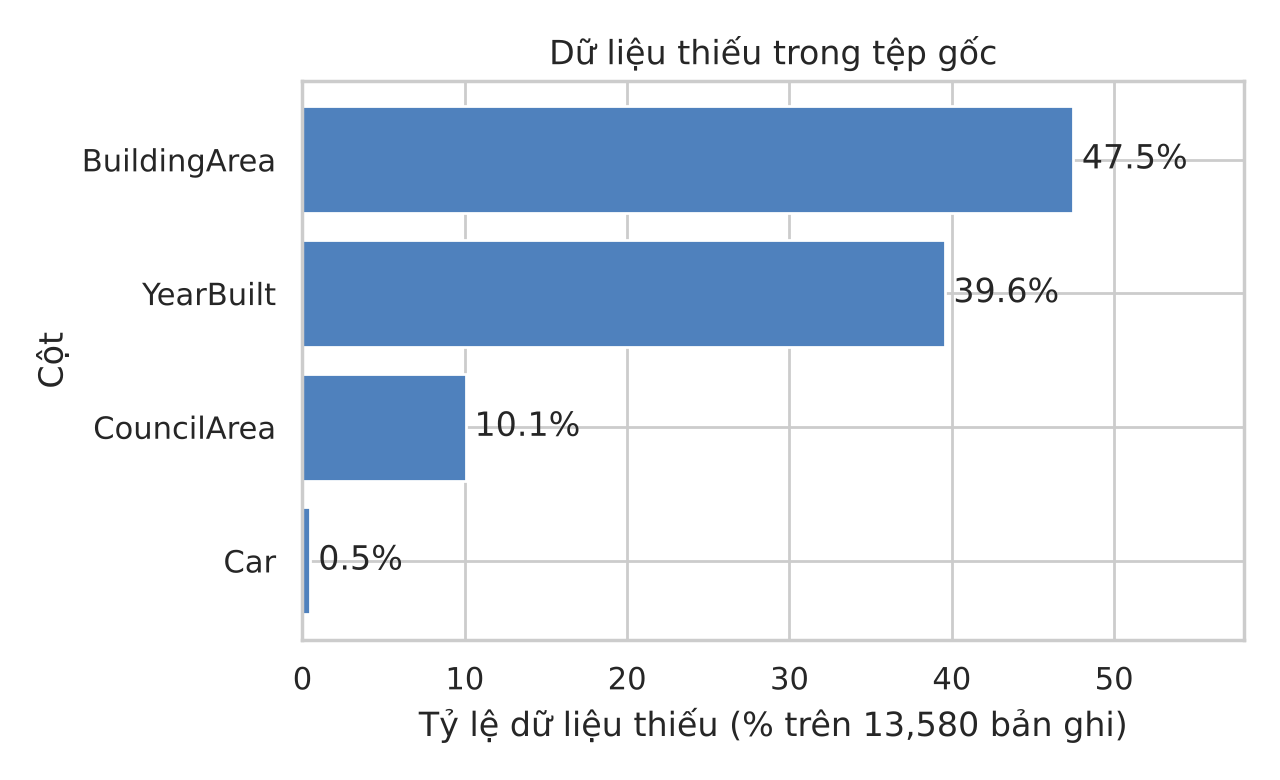
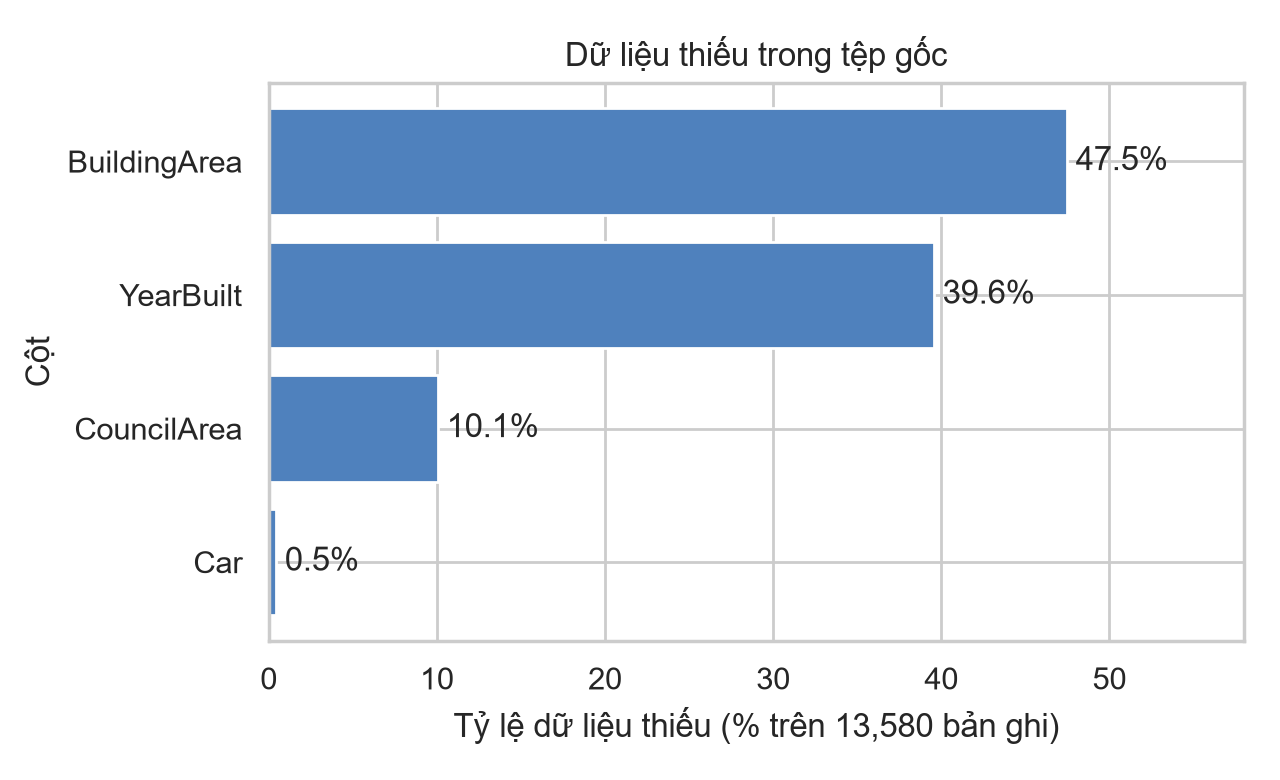
edit

diff --git a/report/chapters/bia.tex b/report/chapters/bia.tex
@@ -5,7 +5,7 @@
 {\Large \textbf{BÁO CÁO ĐỒ ÁN GIỮA KÌ}}\\[4pt]
 {\large Môn học: Lập trình Python}\\[2cm]
 {\Large \textbf{PHÂN TÍCH DỮ LIỆU BẰNG PYTHON}}\\[6pt]
-{\Large Phân tích dữ liệu giá bất động sản Melbourne}\\[3.5cm]
+{\Large Phân tích dữ liệu giá bất động sản Melbourne và tìm hiểu thư viện Scikit-learn trong Machine Learning}\\[3.5cm]
 \begin{tabular}{rl}
 Sinh viên thực hiện: & \HoTen\\[4pt]
 Mã số sinh viên: & \MSSV\\[4pt]
